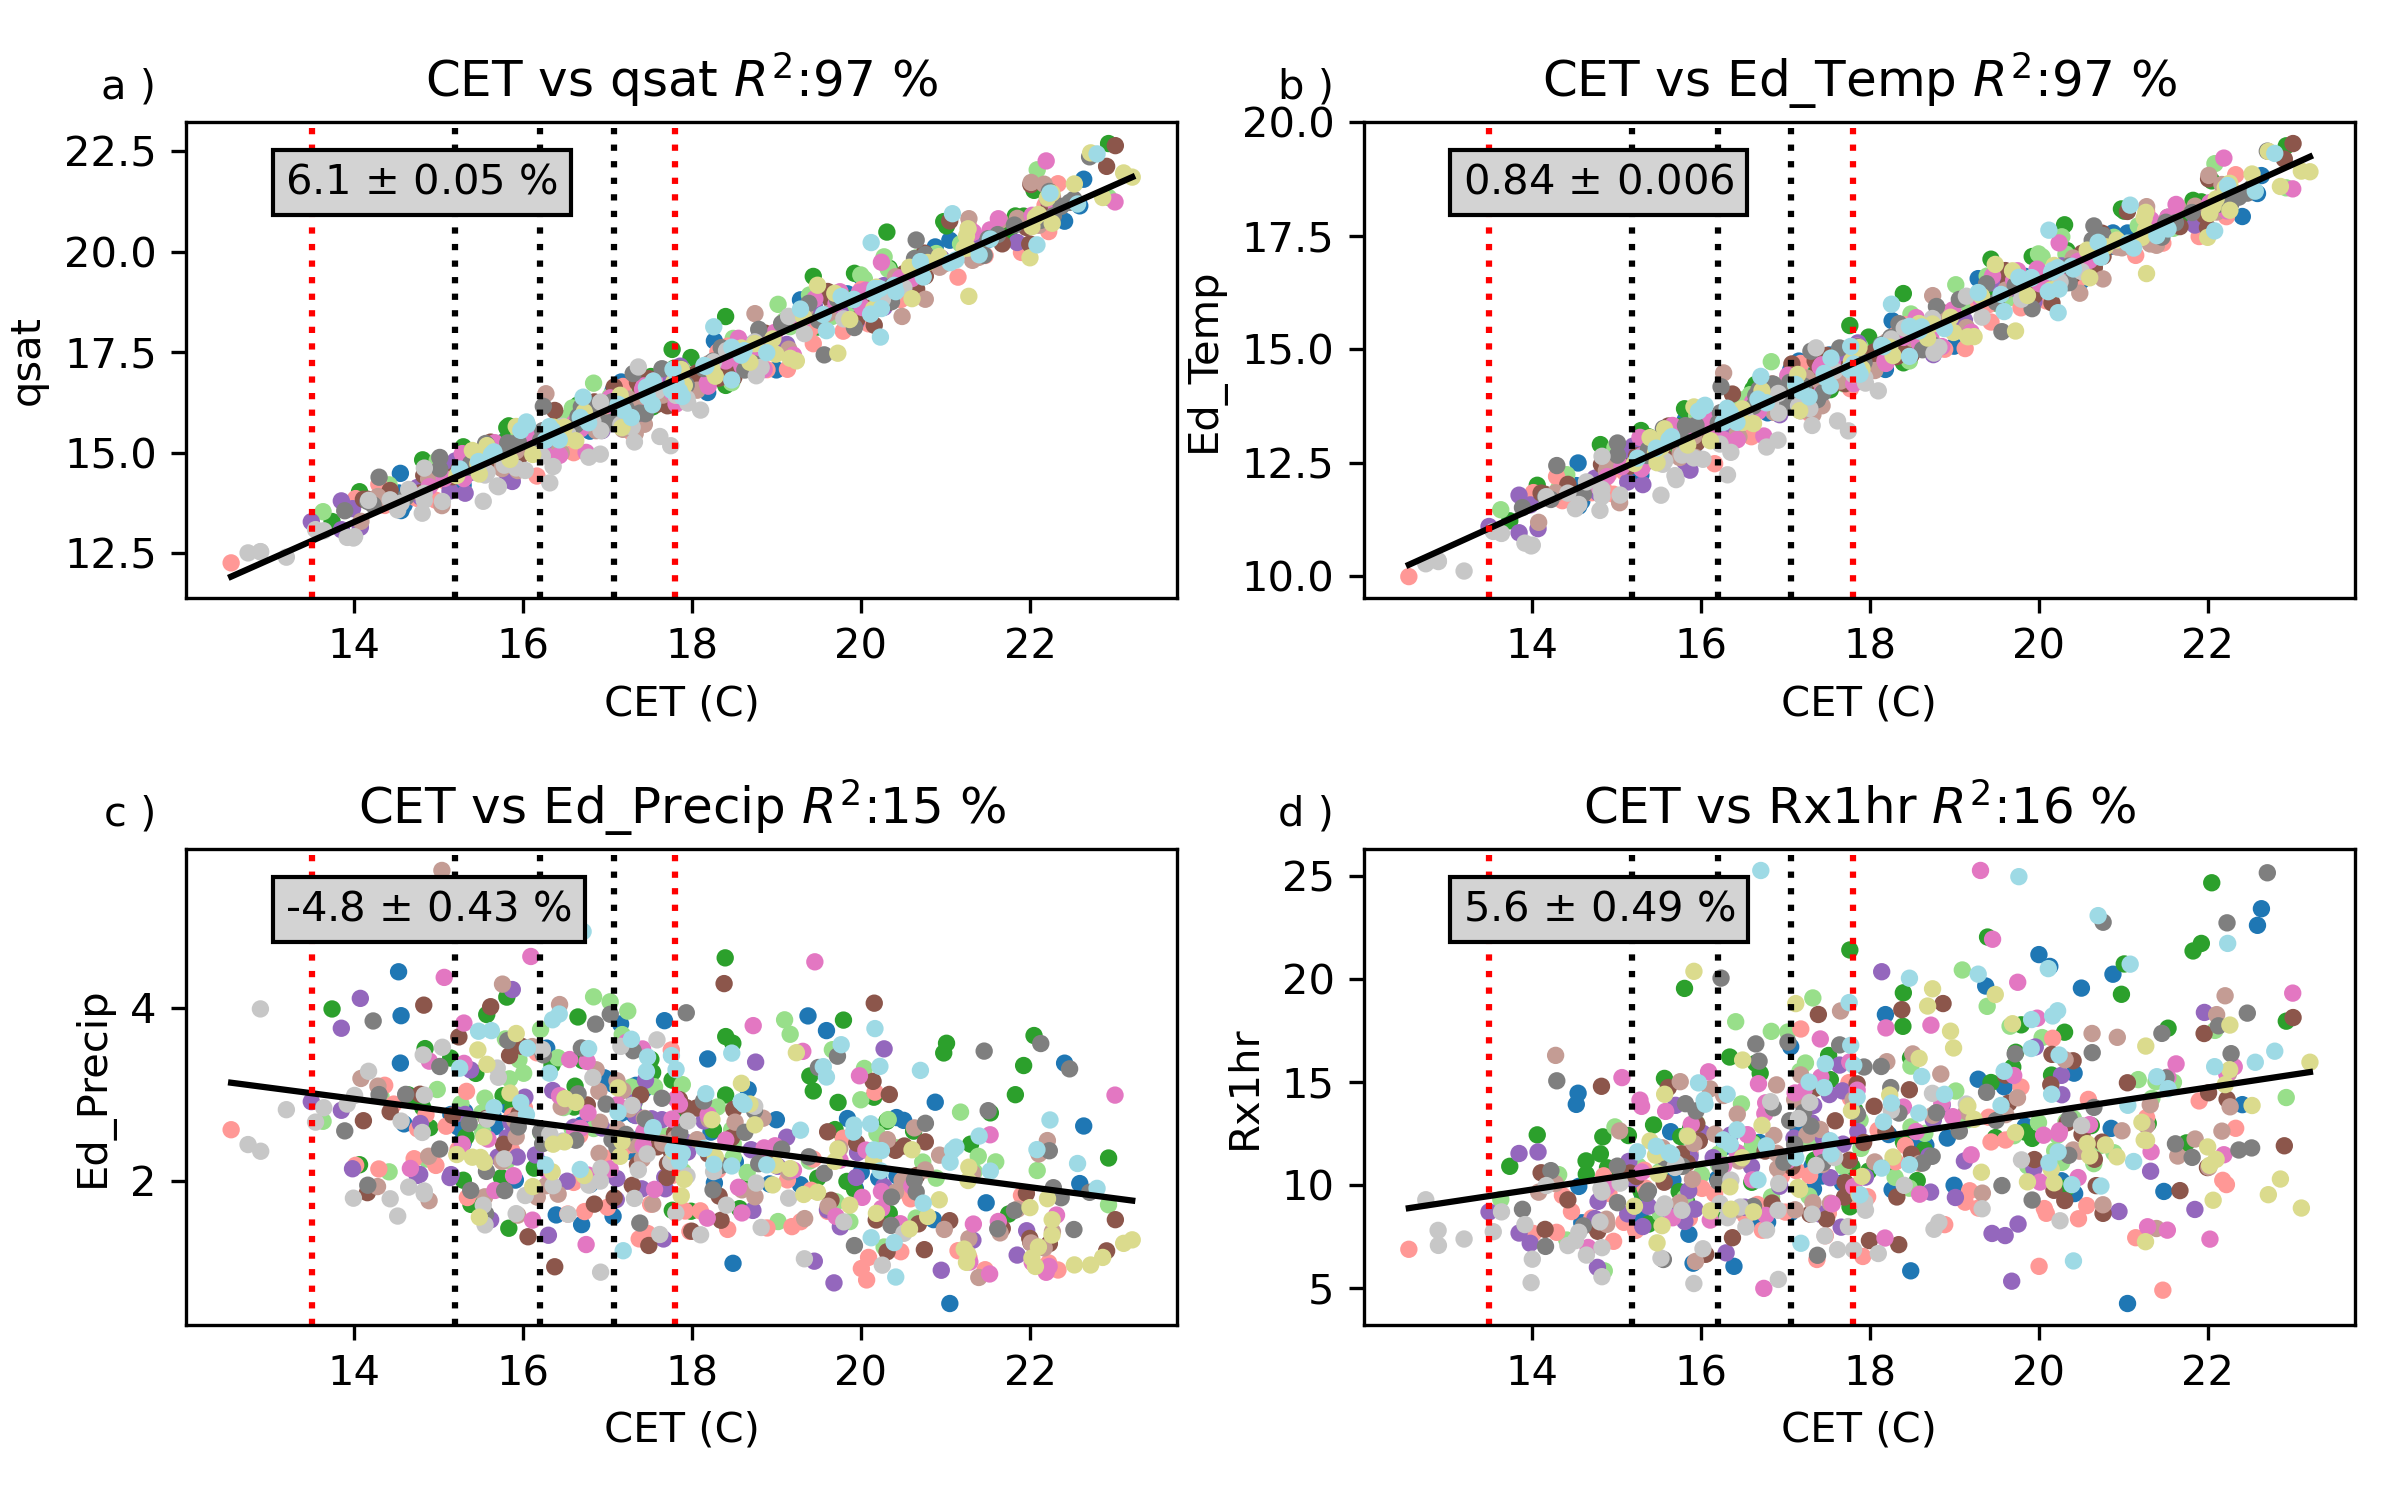
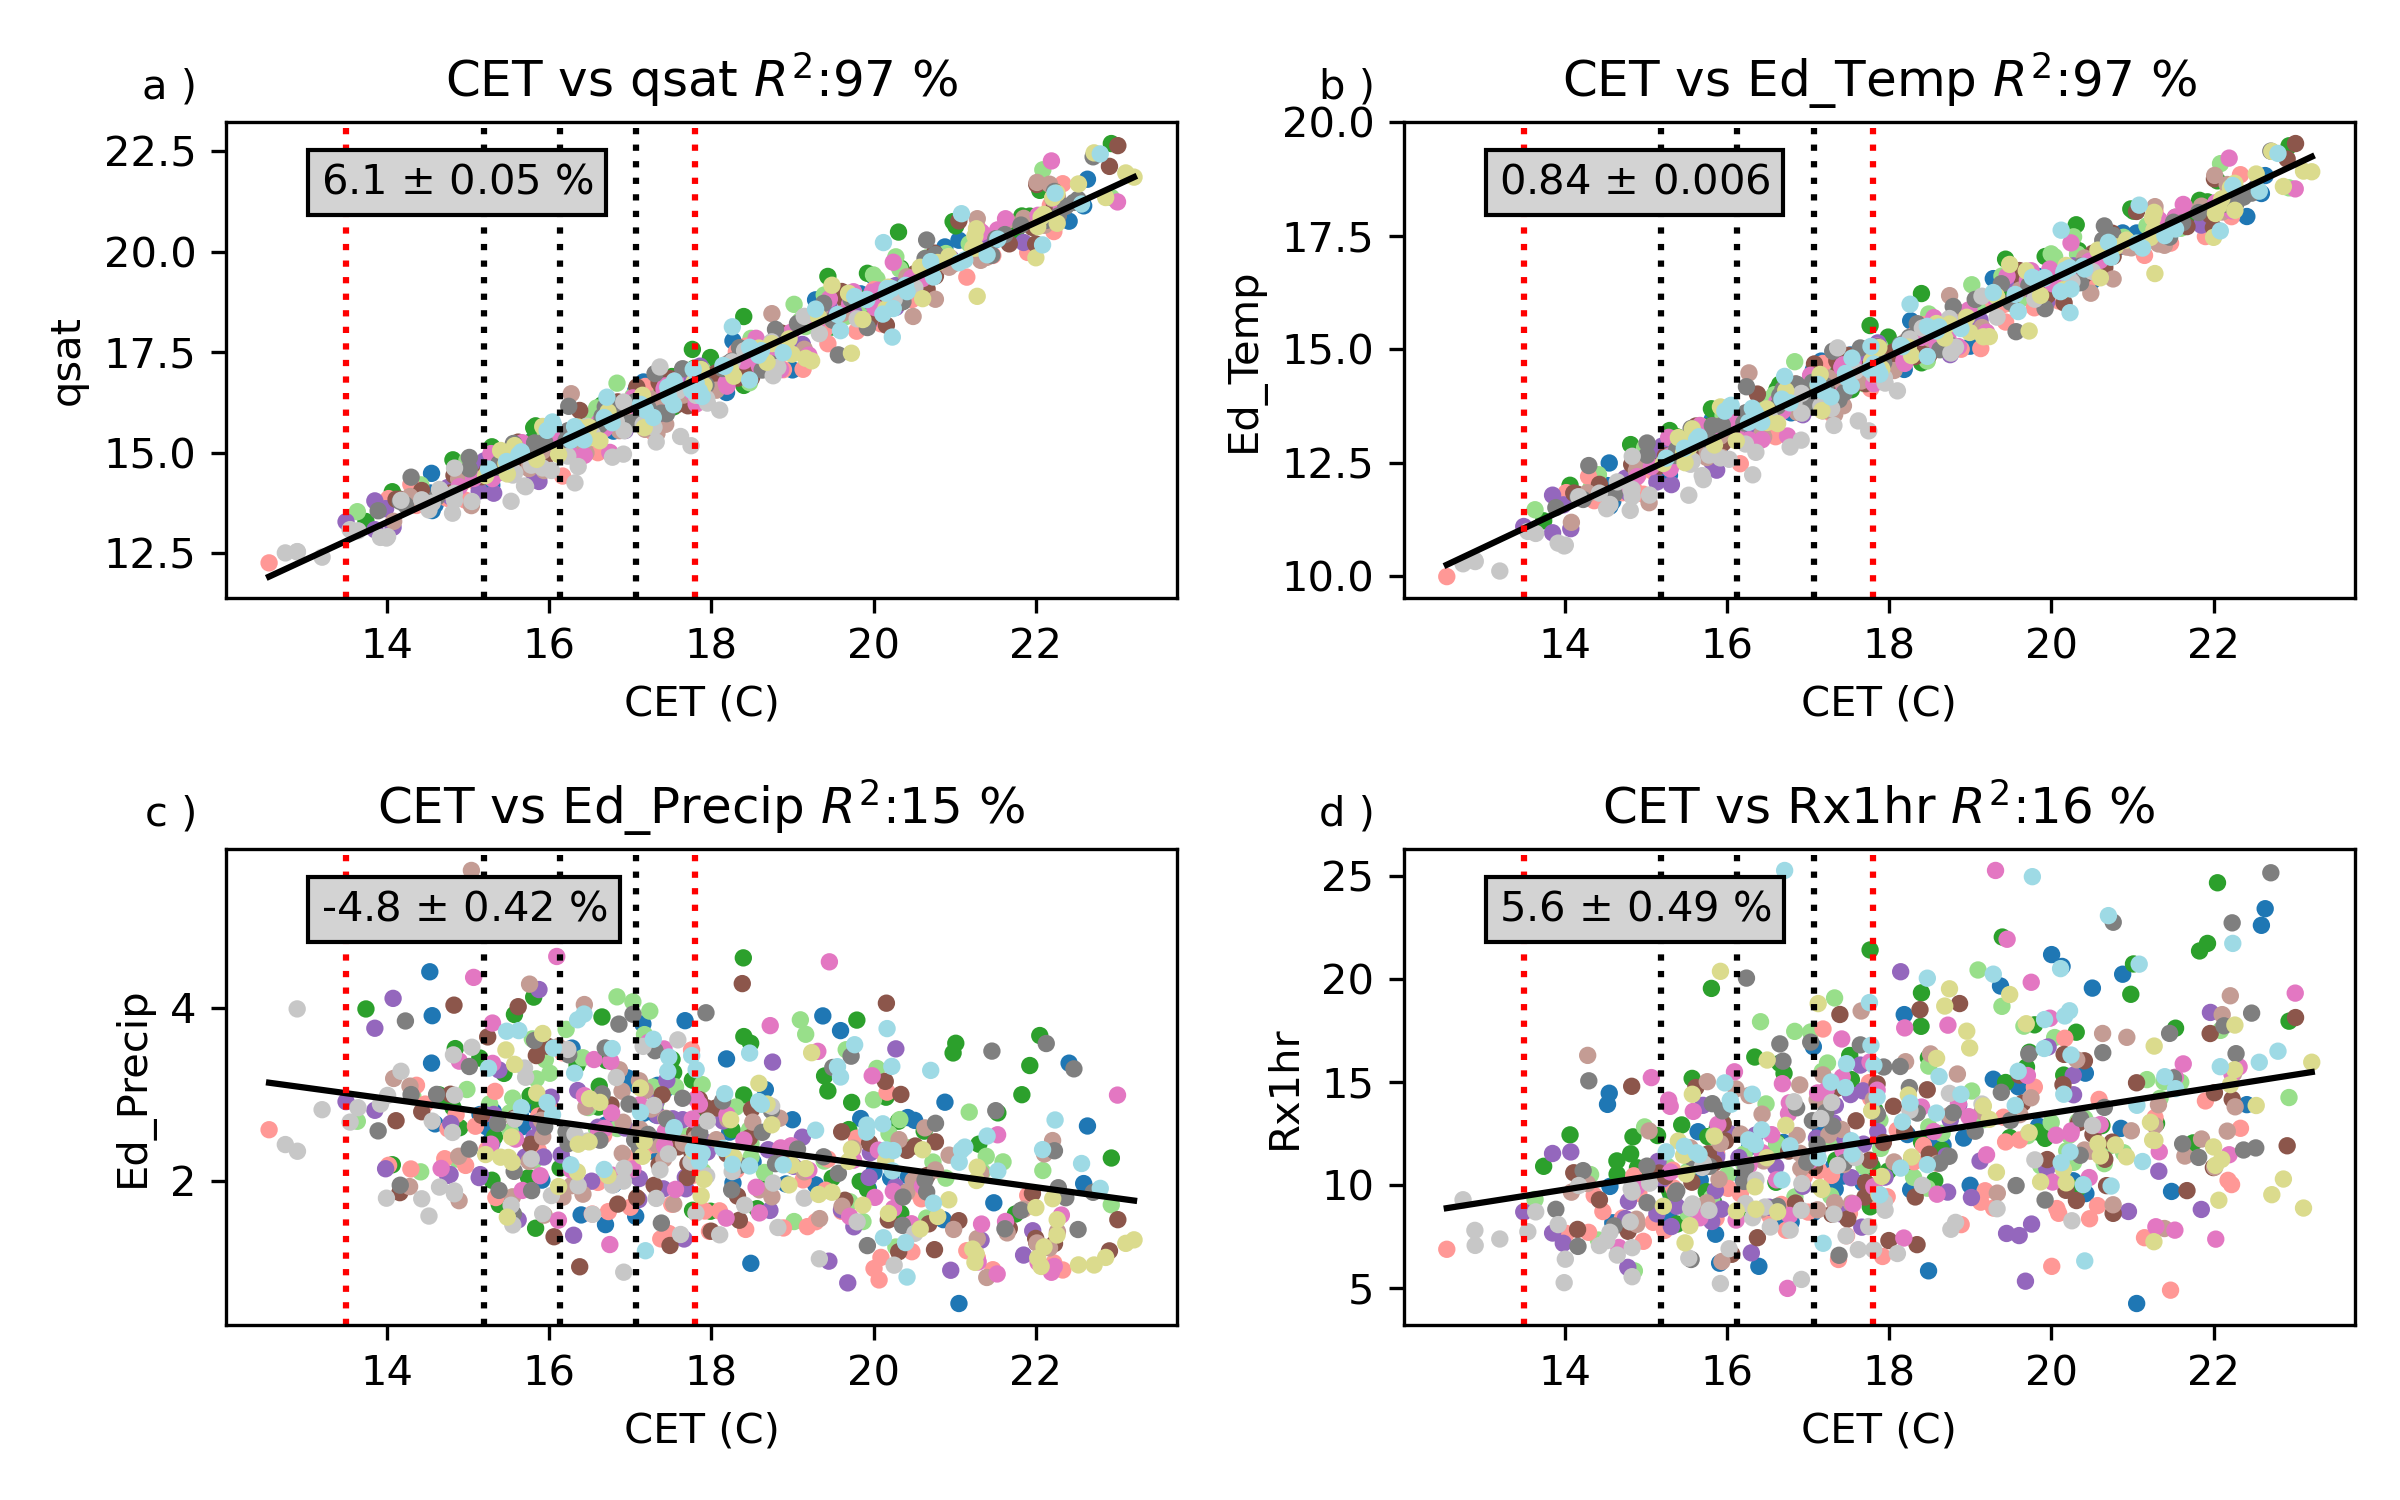
More changes as part of cleanup. Main thing is consistency with directories used.

diff --git a/analyse_cpm_data_rolling.py b/analyse_cpm_data_rolling.py
@@ -75,7 +75,7 @@ def confidence_ellipse(x, y, ax, n_std=3.0, facecolor='none', **kwargs):
     scale_x = np.sqrt(cov[0, 0]) * n_std
     mean_x = np.mean(x)
 
-    # calculating the stdandard deviation of y ...
+    # calculating the standard deviation of y ...
     scale_y = np.sqrt(cov[1, 1]) * n_std
     mean_y = np.mean(y)
 
@@ -102,11 +102,12 @@ outdir_gev = edinburghRainLib.dataDir / 'gev_fits_roll'
 outdir_gev.mkdir(parents=True, exist_ok=True)  # create the directory
 
 ## read in the data we need
-cet = xarray.load_dataset(edinburghRainLib.dataDir / 'cet_tas.nc').tas
-cpm = xarray.load_dataset(edinburghRainLib.dataDir / 'cpm_reg_tas.nc').tas
+covariate_dir = edinburghRainLib.dataDir / "covariates"
+cet = xarray.load_dataset(covariate_dir/ 'cet_tas.nc').tas
+cpm = xarray.load_dataset(covariate_dir/ 'cpm_reg_tas.nc').tas
 
-ed_temp = xarray.load_dataset(edinburghRainLib.dataDir / 'ed_reg_tas.nc').tas
-ed_precip = xarray.load_dataset(edinburghRainLib.dataDir / 'ed_reg_pr.nc').pr
+ed_temp = xarray.load_dataset(covariate_dir / 'ed_reg_tas.nc').tas
+ed_precip = xarray.load_dataset(covariate_dir / 'ed_reg_pr.nc').pr
 ed_reg_hum=qsat(ed_temp)
 cpm_files=list((edinburghRainLib.dataDir/'CPM_data').glob("**/*.nc"))
 ed_extreme_precip = xarray.open_mfdataset(cpm_files).seasonalMax
@@ -131,10 +132,10 @@ cpm_ht = cpm_ht.assign(grid_longitude=ed_extreme_precip.grid_longitude,
                        grid_latitude=ed_extreme_precip.grid_latitude).ht
 msk = (cpm_ht > 0) & (cpm_ht < 200)
 
-# get in observed CET
+# get in observed seasonal CET
 obs_cet = commonLib.read_cet()
-t_today = float(obs_cet.sel(time=(obs_cet.time.dt.month == 7)).sel(time=slice('2005', '2020')).mean())
-t_today = float(obs_cet.sel(time=(obs_cet.time.dt.month == 7)).sel(time='2020'))
+t_today = float(obs_cet.sel(time=(obs_cet.time.dt.month == 7)).sel(time=slice('2012', '2021')).mean())
+#t_today = float(obs_cet.sel(time=(obs_cet.time.dt.month == 7)).sel(time='2020'))
 t_pi = float(obs_cet.sel(time=(obs_cet.time.dt.month == 7)).sel(time=slice('1850', '1899')).mean())
 temp_p2k = 2 * 0.94 + t_pi # from Ed
 
@@ -297,10 +298,12 @@ commonLib.saveFig(fig_scatter)
 # use the fit information to compute the expected change in extreme rainfall
 f=linear_fit['qsat'].get_prediction([1,t_today])
 cc_scale = 100*(linear_fit['qsat'].params[1]/f.predicted_mean)
+
 # and the decline in precipit.
 f=linear_fit['Ed_Precip'].get_prediction([1,t_today])
 rain_change = 100*float(linear_fit['Ed_Precip'].params[1]/f.predicted_mean)
-
+# save the qsat fit
+linear_fit['qsat'].save(outdir_gev/'cet_qsat_fit.sav')
 ## and make plot for SI
 projRot=ccrs.RotatedPole(pole_longitude=177.5,pole_latitude=37.5)
 plot_kws=dict(projection=projRot)
@@ -387,7 +390,7 @@ for name,title in zip(['scatter','scatter_shape'],['Fixed shape','Covariate shap
     ax_scatters.append(ax)
 
 
-fig.colorbar(cm,ax=ax_scatters,orientation='horizontal',label='',fraction=0.075,extend='both',ticks=topog_levels)
+fig.colorbar(cm,ax=ax_scatters,orientation='horizontal',label='',fraction=0.075,extend='both',ticks=topog_levels,pad=0.1)
 
 
 #ax.legend()
@@ -396,8 +399,7 @@ fig.colorbar(cm,ax=ax_scatters,orientation='horizontal',label='',fraction=0.075,
 
 # plot qq-plots for covariate fits
 ## plot the fits for CPM data
-cet = xarray.load_dataset(edinburghRainLib.dataDir / 'cet_tas.nc').tas
-#ed_extreme_precip = xarray.load_dataset(edinburghRainLib.dataDir / 'ed_reg_max_precip.nc').pr
+cet = xarray.load_dataset(covariate_dir / 'cet_tas.nc').tas
 ed=edinburghRainLib.rotated_coords['Edinburgh']
 ed_ext=ed_extreme_precip.sel(grid_latitude=ed[1],grid_longitude=ed[0],method='nearest',rolling=1).load() #
 ed_west_ext = ed_extreme_precip.sel(grid_latitude=ed[1],grid_longitude=ed[0]-0.25,method='nearest',rolling=1).load() #
@@ -432,6 +434,7 @@ for data,name in zip( [ed_ext,ed_west_ext],['r_gev_fit_ed','r_gev_fit_w_ed']):
     ax.yaxis.set_tick_params(labelleft=False)
     ax.set_title(name)
     label.plot(ax) # add label
+
 #fig.tight_layout()
 fig.show()
 commonLib.saveFig(fig)

diff --git a/plot_edinburgh_geography.py b/plot_edinburgh_geography.py
@@ -72,7 +72,7 @@ cmt = topog.elevation.plot(ax=ax_seScot, transform=ccrs.PlateCarree(), cmap='ter
 scalebar = ScaleBar(1,"m",**scalebarprops)
 ax_seScot.add_artist(scalebar)
 # if time == '2021-07-04T15:00':
-urb.plot(ax=ax_seScot, add_colorbar=False, transform=projLand, levels=[0.99, 1.01], colors='black',alpha=0.5)
+urb.plot(ax=ax_seScot, add_colorbar=False, transform=projLand, levels=[0.99, 1.01], colors='black',alpha=1)
 ax_seScot.plot(*edinburghRainLib.edinburgh_castle.values(), transform=projGB,
                marker='o', color='purple', ms=9, alpha=0.7)
 edinburghRainLib.std_decorators(ax_seScot,radarNames=True)
@@ -83,7 +83,7 @@ for name,coords in labels.items():
 # add an inset plot of the BI
 axBI = inset_axes(ax_seScot, width="39%", height="33%", loc="lower left",
                   axes_class=cartopy.mpl.geoaxes.GeoAxes, borderpad=0.,
-                  axes_kwargs=dict(map_projection=ccrs.PlateCarree()))
+                  axes_kwargs=dict(projection=ccrs.PlateCarree()))
 axBI.set_extent((-11, 2, 50, 61))
 axBI.tick_params(labelleft=False, labelbottom=False)
 axBI.coastlines()

diff --git a/plot_intensity_risk_ratios.py b/plot_intensity_risk_ratios.py
@@ -494,7 +494,7 @@ mc_shape_all_ir,mc_shape_all_pr = pr_ir_monte_carlo(mc_radar_fit,bootstrap_ratio
                       file_pattern = str(outdir_gev)+"/shape_",refresh=refresh)
 # get the expected CC rate which arises because Edinburgh Temperatures increase at about 90% of CET rates.
 # might need to re-compute here rather than in analyse_cpm code.
-qsat_fit = sm.load(edinburghRainLib.dataDir/'gev_fits'/'cet_qsat_fit.sav')
+qsat_fit = sm.load(outdir_gev/'cet_qsat_fit.sav')
 f=qsat_fit.get_prediction([1,t_today])
 cc_scale = float(100*(qsat_fit.params[1]/f.predicted_mean))
 cc_rng = 100*qsat_fit.conf_int()[1,:]/f.predicted_mean

diff --git a/comp_radar_fits.py b/comp_radar_fits.py
@@ -39,7 +39,7 @@ mc_dist = xarray.concat(mc_dist, dim='sample')
 #save the data
 mc_dist.to_netcdf(edinburghRainLib.dataDir/'radar_precip'/'bootstrap_reg_radar_params.nc')
 radar_fit.to_netcdf(edinburghRainLib.dataDir/'radar_precip'/'reg_radar_params.nc')
-radar_data_all.to_netcdf(edinburghRainLib/'radar_precip'/'reg_radar_rain.nc')
+radar_data_all.to_netcdf(edinburghRainLib.dataDir/'radar_precip'/'reg_radar_rain.nc')
 print("\nRadar fit and bootstrapped")
 
 # generate

diff --git a/edinburghRainLib.py b/edinburghRainLib.py
@@ -397,7 +397,7 @@ def std_decorators(ax,showregions=True,radarNames=False):
     """
 
 
-    ax.plot(metadata.Easting,metadata.Northing,marker='h',color='red',ms=7,linestyle='none',
+    ax.plot(metadata.Easting,metadata.Northing,marker='h',color='orange',ms=10,linestyle='none',
             transform=cartopy.crs.OSGB(approx=True)) #  radar stations location.
     #ax.gridlines(draw_labels=False, x_inline=False, y_inline=False)
     if showregions:

diff --git a/old_code/gev_fit.py b/old_code/gev_fit.py
@@ -5,9 +5,6 @@ import matplotlib.pyplot as plt
 import scipy.stats
 import numpy as np
 import xarray
-import pathlib
-#import dask
-import seaborn as sns
 import pandas as pd
 import edinburghRainLib
 

diff --git a/README.md b/README.md
@@ -30,7 +30,7 @@ You need to install R on your computer and  modify this library to point to R.
 ## Main figures
 
 * plot_edinburgh_geography -- Plot edinburgh image, plan of castle and map of SE Scotland. 
-* plot_edinburgh_precip_dist -- Plot precipitation for 4th july 2021 and distributions of radar regional extremes data.
+* plot_edinburgh_precip_dist -- Plot precipitation for 4th July 2021 and distributions of radar regional extremes data.
 * plot_intensity_risk_ratios -- Plot intensity and probability risk ratios 
 
 ------
@@ -40,3 +40,6 @@ You need to install R on your computer and  modify this library to point to R.
 * create_counties -- Create county shape files from OS data. Used to generate high enough resolution  county data. 
 * radar_station_metadata.xlxs -- Radar station metadata
 * old_code -- folder containing old code. May not work! 
+
+## Dependencies
+  See requirements.txt
